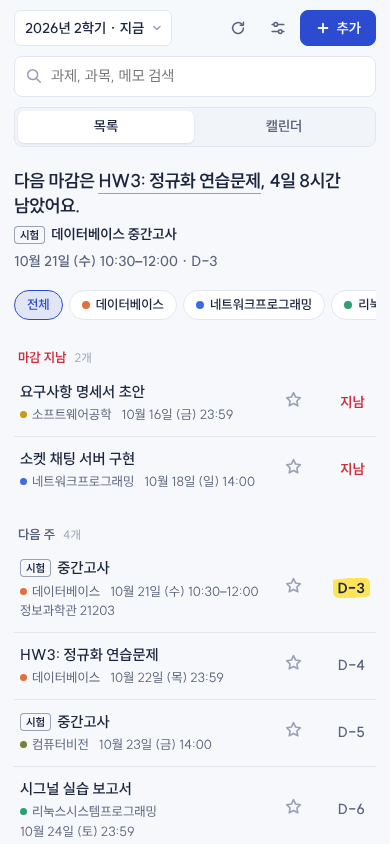
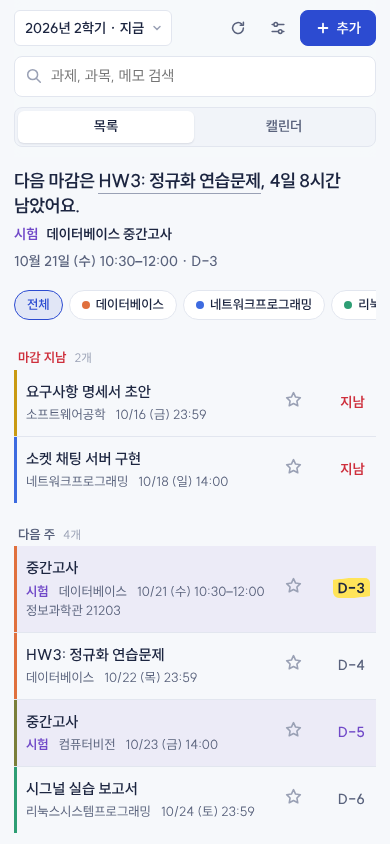
design: 과목 색 막대, 시험은 보라 바탕, 목록 날짜 10/20 (화)
- 과목 색: 정보 줄 앞 점 대신 줄 왼쪽 얇은 막대 (글자 줄 정렬 유지)
- 시험: 칩 대신 연보라 바탕 + 보라 "시험" 글자 + 보라 D-day, 캘린더 칸도 같은 색
- 목록 날짜를 10/20 (화) 23:59 형식으로 (위쪽 안내 줄은 그대로)

Claude-Session: https://claude.ai/code/session_01VYtpNtxSMGWfGLeovZEFXd

diff --git a/assets/style.css b/assets/style.css
@@ -21,6 +21,8 @@
   --hl-ink: #1C2540;
   --red: #CE2F3C;
   --green: #23926A;
+  --exam: #7048C8;
+  --exam-soft: rgba(112, 72, 200, 0.07);
   --shadow: 0 1px 0 rgba(28, 37, 64, 0.04), 0 8px 24px rgba(28, 37, 64, 0.08);
   --radius-s: 6px;
   --radius-m: 10px;
@@ -44,6 +46,8 @@
     --hl-pink: #EE7FA9;
     --red: #FF6B76;
     --green: #4CC596;
+    --exam: #B49BFF;
+    --exam-soft: rgba(180, 155, 255, 0.09);
     --shadow: 0 1px 0 rgba(0, 0, 0, 0.3), 0 10px 30px rgba(0, 0, 0, 0.35);
     color-scheme: dark;
   }
@@ -63,6 +67,8 @@
   --hl-pink: #EE7FA9;
   --red: #FF6B76;
   --green: #4CC596;
+  --exam: #B49BFF;
+  --exam-soft: rgba(180, 155, 255, 0.09);
   --shadow: 0 1px 0 rgba(0, 0, 0, 0.3), 0 10px 30px rgba(0, 0, 0, 0.35);
   color-scheme: dark;
 }
@@ -824,3 +830,22 @@ a.notice-title:hover { text-decoration: underline; text-underline-offset: 3px; }
 .compact-empty { padding: 20px 0; color: var(--pencil); }
 .compact .semester { display: none !important; }
 .compact .topbar { grid-template-columns: 1fr auto; }
+
+/* ───── 과목 막대 · 시험 색 · 짧은 날짜 ───── */
+/* 과목 색은 줄 왼쪽의 얇은 막대로 (점은 글자 줄을 어긋나게 해서 뺌) */
+.row { box-shadow: inset 3px 0 0 var(--c, transparent); padding-left: 16px; }
+.row.done { box-shadow: inset 3px 0 0 color-mix(in srgb, var(--c, transparent) 35%, transparent); }
+.row .meta .subj::before { content: none; }
+.subj { display: inline; }
+
+/* 시험: 칩 대신 연보라 바탕 + 보라 글자 */
+.row.exam { background: var(--exam-soft); }
+.row.exam:hover { background: color-mix(in srgb, var(--exam-soft) 100%, var(--sheet) 40%); }
+.exam-word { color: var(--exam); font-weight: 700; }
+.row .meta .exam-word + span::before { content: none; }
+.row.exam .dday:not(.over):not(.done) { color: var(--exam); }
+.row.exam .dday.soon span, .row.exam .dday.urgent span { color: var(--hl-ink); }
+.next-exam .exam-word { margin-right: 2px; }
+.cal-pill.exam { background: var(--exam-soft); color: var(--exam); box-shadow: none; font-weight: 650; }
+.cal-pill.exam.done { color: var(--pencil-2); }
+@media (max-width: 640px) { .row { padding-left: 12px; } }

diff --git a/assets/js/views.js b/assets/js/views.js
@@ -1,7 +1,7 @@
 // 목록 / 캘린더 보기
 
 import {
-  h, dday, fmtDate, fmtDuration, groupOf, GROUPS, subjectColor,
+  h, dday, fmtDate, fmtShort, fmtDuration, groupOf, GROUPS, subjectColor,
   startOfDay, addDays, sameDay, dayKey, WEEK, isExam, examOver, timeRange,
 } from './util.js';
 
@@ -48,7 +48,6 @@ export function taskRow(t, ctx, { compact = false } = {}) {
   }, svg(ICON_STAR));
 
   const title = h('div', { class: 'title' },
-    exam ? h('span', { class: 'kind-tag' }, '시험') : null,
     h('span', { class: 'title-text' }, t.title),
     t.link ? h('a', {
       class: 'lms-link', href: t.link, target: '_blank', rel: 'noopener noreferrer',
@@ -57,8 +56,9 @@ export function taskRow(t, ctx, { compact = false } = {}) {
   );
 
   const meta = h('div', { class: 'meta' },
-    !compact && t.subject ? h('span', { class: 'subj', style: { '--c': subjectColor(t.subject) } }, t.subject) : null,
-    exam ? h('span', null, `${fmtDate(due, false)} ${timeRange(t)}`) : h('span', null, fmtDate(due)),
+    exam ? h('span', { class: 'exam-word' }, '시험') : null,
+    !compact && t.subject ? h('span', { class: 'subj' }, t.subject) : null,
+    exam ? h('span', null, `${fmtShort(due, false)} ${timeRange(t)}`) : h('span', null, fmtShort(due)),
     exam && t.location ? h('span', { class: 'place' }, t.location) : null,
     remain ? h('span', { class: 'remain' }, remain) : null,
     !compact && t.done ? submissionLine(t) : null,
@@ -73,7 +73,9 @@ export function taskRow(t, ctx, { compact = false } = {}) {
 
   const badge = h('div', { class: `dday ${info.level}` }, h('span', null, info.label));
 
-  return h('li', { class: `row${t.done ? ' done' : ''}${exam ? ' exam' : ''}${t.starred ? ' starred' : ''}`, dataset: { id: t.id } },
+  // 왼쪽 얇은 막대 = 과목 색
+  return h('li', { class: `row${t.done ? ' done' : ''}${exam ? ' exam' : ''}${t.starred ? ' starred' : ''}`, dataset: { id: t.id },
+    style: { '--c': subjectColor(t.subject) } },
     main, star, badge);
 }
 

diff --git a/assets/js/util.js b/assets/js/util.js
@@ -22,6 +22,11 @@ export function fmtDate(d, withTime = true) {
   const base = `${d.getMonth() + 1}월 ${d.getDate()}일 (${WEEK[d.getDay()]})`;
   return withTime ? `${base} ${pad(d.getHours())}:${pad(d.getMinutes())}` : base;
 }
+// 목록용 짧은 날짜: 10/20 (화) 23:59
+export function fmtShort(d, withTime = true) {
+  const base = `${d.getMonth() + 1}/${d.getDate()} (${WEEK[d.getDay()]})`;
+  return withTime ? `${base} ${pad(d.getHours())}:${pad(d.getMinutes())}` : base;
+}
 export const fmtClock = d => `${pad(d.getHours())}:${pad(d.getMinutes())}`;
 
 export function fmtDuration(ms) {

diff --git a/assets/js/app.js b/assets/js/app.js
@@ -119,7 +119,7 @@ function renderNext() {
   if (nextExam && new Date(nextExam.due) - now < 7 * 864e5) {
     const d = new Date(nextExam.due);
     parts.push(h('p', { class: 'next-exam' },
-      h('span', { class: 'kind-tag' }, '시험'),
+      h('span', { class: 'exam-word' }, '시험'),
       h('button', { type: 'button', onclick: () => openPanel(nextExam) },
         [nextExam.subject, nextExam.title].filter(Boolean).join(' ')),
       ` ${fmtDate(d, false)} ${timeRange(nextExam)}`,

diff --git a/sw.js b/sw.js
@@ -1,7 +1,7 @@
 // 앱 화면 파일만 캐시해서 오프라인에서도 열리게 한다.
 // 과제 데이터(Supabase 호출)는 캐시하지 않는다. 항상 네트워크 우선.
 
-const CACHE = 'dday-shell-v12';
+const CACHE = 'dday-shell-v13';
 const SHELL = [
   './',
   'index.html',
